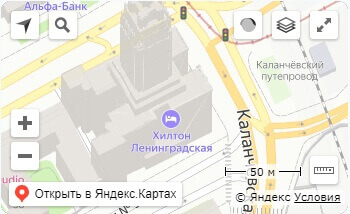
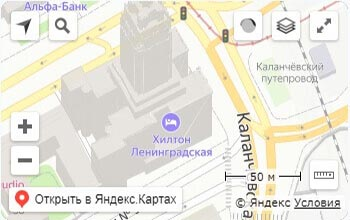
fix: 1. script asinc error validator

diff --git a/index.html b/index.html
@@ -897,7 +897,7 @@
 
     <!-- Script -->
     <script src="https://api-maps.yandex.ru/2.1/?apikey=778ba6be-c8b7-4f35-bc52-b768579c5cd6&lang=ru_RU"></script>
-    <script id="ymap_lazy" async data-src="js/map.js"></script>
+    <script id="ymap_lazy" data-src="js/map.js"></script>
     <script src="js/jquery-3.6.0.min.js"></script>
     <script src="js/jquery.validate.min.js"></script>
     <script src="js/jquery.mask.min.js"></script>

diff --git a/sass/blocks/_hotel.sass b/sass/blocks/_hotel.sass
@@ -171,9 +171,11 @@
     cursor: pointer
 .map 
   width: 347px
-  height: 213px
+  height: 222px
   border-radius: 10px
   overflow: hidden
   background-image: url(../img/maps/maps.jpg)
+  background-repeat: no-repeat
   background-position: center center
-.container-fluid
+  object-fit: cover
+  

diff --git a/css/style.css b/css/style.css
@@ -780,11 +780,13 @@ template {
 
 .map {
   width: 347px;
-  height: 213px;
+  height: 222px;
   border-radius: 10px;
   overflow: hidden;
   background-image: url(../img/maps/maps.jpg);
+  background-repeat: no-repeat;
   background-position: center center;
+  object-fit: cover;
 }
 
 .packages {

diff --git a/sass/_media.sass b/sass/_media.sass
@@ -295,6 +295,9 @@
   .modal
     &__dialog
       padding: 15px 40px
+  
+    
+    
 @media (max-width: 625px)
   .logo
     width: 99px
@@ -570,7 +573,6 @@
         margin-bottom: 15px
       &-name
         grid-column: 1/3
-
   .button
     grid-row: 9
     grid-column: 1
